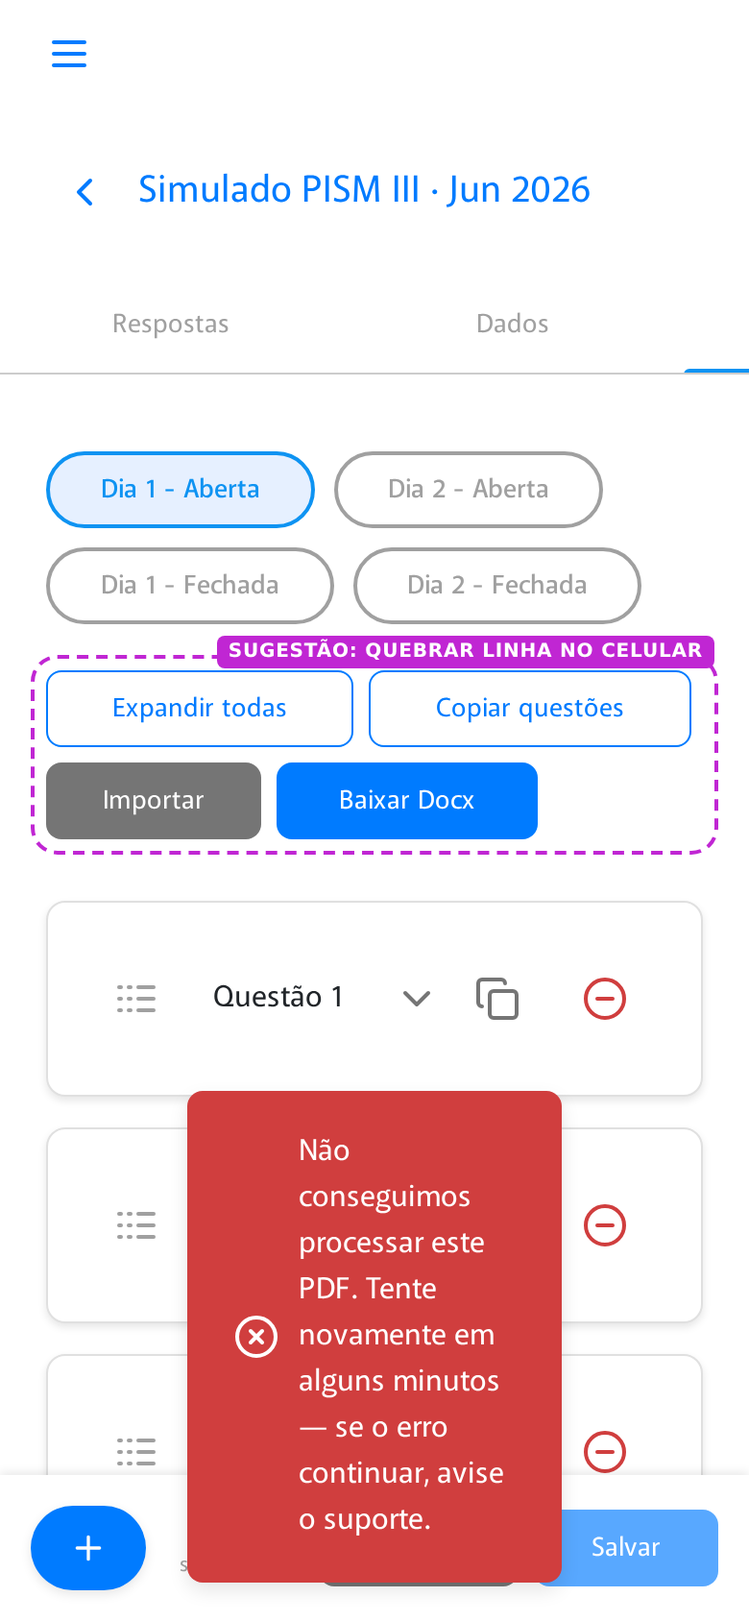
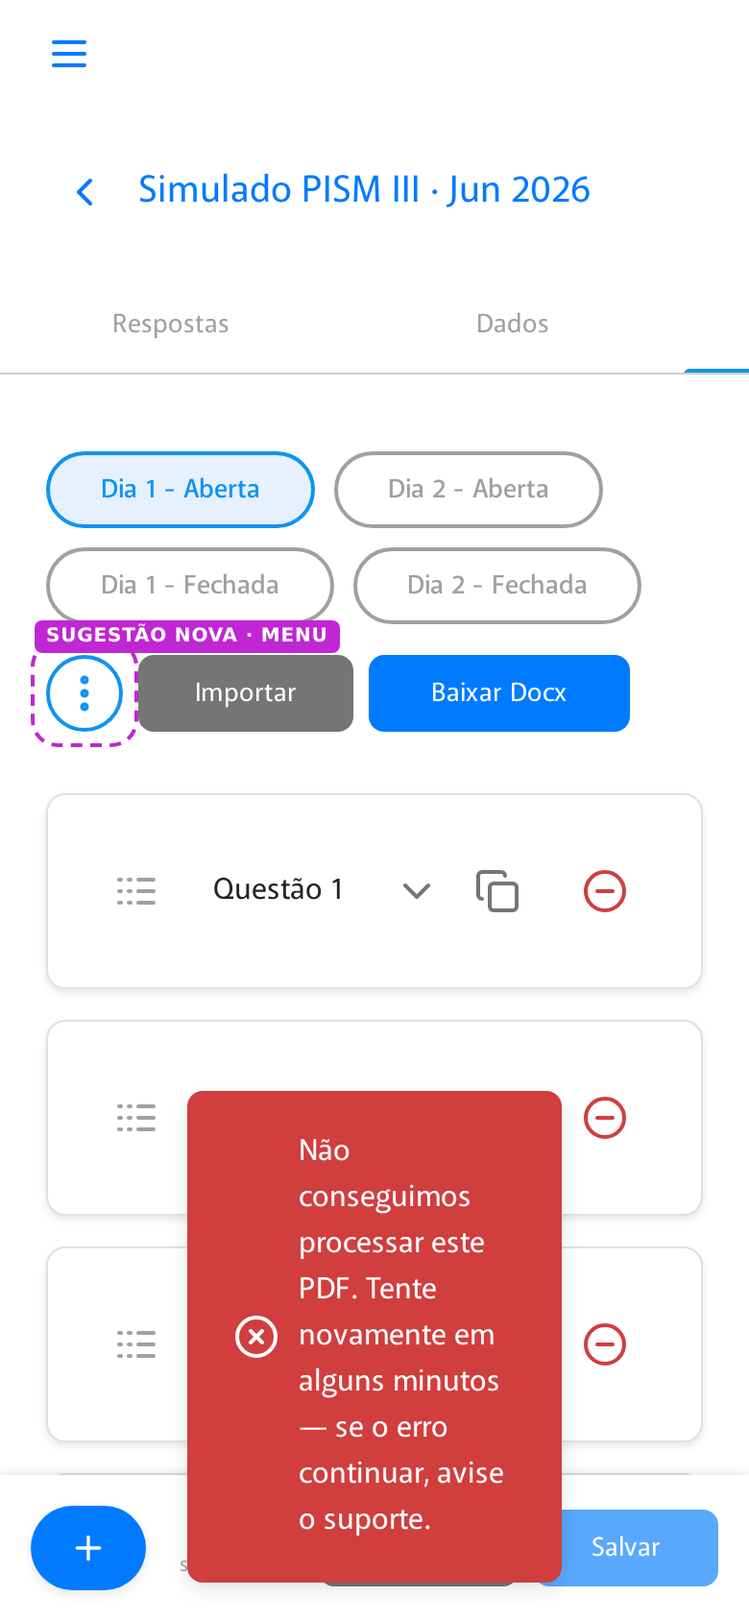
design: Expandir todas e Copiar questões num menu de 3 pontos, Importar e Baixar Docx soltos
Card Trello 489. Menu de 3 pontos marcado como sugestão (tracejado roxo), tela nova
simulado-extracao-pdf-menu com o menu aberto. Some a quebra de linha no celular, a
fileira passa a caber.

diff --git a/admin/simulado-extracao-pdf-menu.html b/admin/simulado-extracao-pdf-menu.html
@@ -1,0 +1,105 @@
+<!doctype html>
+<html lang="pt-BR">
+<head>
+  <meta charset="utf-8" />
+  <meta name="viewport" content="width=device-width, initial-scale=1" />
+  <title>Menu de 3 pontos · Questões do simulado · Admin · Mago do Pism</title>
+  <link rel="stylesheet" href="https://cdn.jsdelivr.net/npm/bootstrap@5.3.3/dist/css/bootstrap.min.css" />
+  <link rel="stylesheet" href="../styles/treino.css" />
+  <link rel="stylesheet" href="../styles/extracao-pdf.css" />
+</head>
+<!-- Card 489. Fluxo igual ao "Importar" da lista de exercícios (create-question-list), aplicado no AddQuestion do simulado. -->
+<body>
+<div class="mdp-root">
+    <aside class="mdp-aside bg-primary text-white d-flex flex-column flex-shrink-0" id="mdpAside">
+      <div class="text-center my-4"><img src="../assets/logo-azul.png" alt="Mago do Pism" class="mdp-logo" /></div>
+      <nav class="nav flex-column flex-grow-1 px-0">
+        <a class="nav-link rounded-0 text-white d-flex align-items-center p-3 w-100" href="#"><div class="mx-3 mdp-ico"><svg width="24" height="24" viewBox="0 0 25 25" fill="none" xmlns="http://www.w3.org/2000/svg"> <path d="M15.625 21.8751V13.5418C15.625 13.2655 15.5153 13.0006 15.3199 12.8052C15.1246 12.6099 14.8596 12.5001 14.5833 12.5001H10.4167C10.1404 12.5001 9.87545 12.6099 9.6801 12.8052C9.48475 13.0006 9.375 13.2655 9.375 13.5418V21.8751M3.125 10.4168C3.12493 10.1137 3.19097 9.8143 3.31853 9.5394C3.44609 9.26449 3.63208 9.02073 3.86354 8.82511L11.1552 2.57615C11.5312 2.25835 12.0077 2.08398 12.5 2.08398C12.9923 2.08398 13.4688 2.25835 13.8448 2.57615L21.1365 8.82511C21.3679 9.02073 21.5539 9.26449 21.6815 9.5394C21.809 9.8143 21.8751 10.1137 21.875 10.4168V19.7918C21.875 20.3443 21.6555 20.8742 21.2648 21.2649C20.8741 21.6556 20.3442 21.8751 19.7917 21.8751H5.20833C4.6558 21.8751 4.12589 21.6556 3.73519 21.2649C3.34449 20.8742 3.125 20.3443 3.125 19.7918V10.4168Z" stroke="#FCFCFC" stroke-width="2" stroke-linecap="round" stroke-linejoin="round"/> </svg></div><span>Início</span></a>
+        <a class="nav-link rounded-0 text-white d-flex align-items-center p-3 w-100" href="#"><div class="mx-3 mdp-ico"><svg width="24" height="24" viewBox="0 0 25 25" fill="none" xmlns="http://www.w3.org/2000/svg"> <path d="M7.29167 21.875H17.7083M10.4167 8.07292C10.4169 7.93416 10.4541 7.79797 10.5245 7.67835C10.5948 7.55874 10.6957 7.46002 10.8169 7.39235C10.938 7.32467 11.075 7.29048 11.2137 7.29329C11.3525 7.2961 11.488 7.33581 11.6062 7.40833L15.4229 9.75104C15.5367 9.82094 15.6306 9.91882 15.6958 10.0353C15.7609 10.1519 15.7951 10.2832 15.7951 10.4167C15.7951 10.5502 15.7609 10.6815 15.6958 10.798C15.6306 10.9145 15.5367 11.0124 15.4229 11.0823L11.6062 13.426C11.4878 13.4987 11.3521 13.5384 11.2132 13.5411C11.0743 13.5438 10.9372 13.5094 10.816 13.4415C10.6948 13.3736 10.5939 13.2746 10.5237 13.1547C10.4535 13.0348 10.4166 12.8983 10.4167 12.7594V8.07292ZM4.16667 3.125H20.8333C21.9839 3.125 22.9167 4.05774 22.9167 5.20833V15.625C22.9167 16.7756 21.9839 17.7083 20.8333 17.7083H4.16667C3.01607 17.7083 2.08333 16.7756 2.08333 15.625V5.20833C2.08333 4.05774 3.01607 3.125 4.16667 3.125Z" stroke="#FCFCFC" stroke-width="2" stroke-linecap="round" stroke-linejoin="round"/> </svg></div><span>Cursos</span></a>
+        <a class="nav-link rounded-0 text-white d-flex align-items-center p-3 w-100" href="#"><div class="mx-3 mdp-ico"><svg width="24" height="24" viewBox="0 0 24 24" fill="none" xmlns="http://www.w3.org/2000/svg"> <path d="M16 21V19C16 17.9391 15.5786 16.9217 14.8284 16.1716C14.0783 15.4214 13.0609 15 12 15H6C4.93913 15 3.92172 15.4214 3.17157 16.1716C2.42143 16.9217 2 17.9391 2 19V21M22 21V19C21.9993 18.1137 21.7044 17.2528 21.1614 16.5523C20.6184 15.8519 19.8581 15.3516 19 15.13M16 3.13C16.8604 3.3503 17.623 3.8507 18.1676 4.55231C18.7122 5.25392 19.0078 6.11683 19.0078 7.005C19.0078 7.89317 18.7122 8.75608 18.1676 9.45769C17.623 10.1593 16.8604 10.6597 16 10.88M13 7C13 9.20914 11.2091 11 9 11C6.79086 11 5 9.20914 5 7C5 4.79086 6.79086 3 9 3C11.2091 3 13 4.79086 13 7Z" stroke="currentColor" stroke-width="2" stroke-linecap="round" stroke-linejoin="round"/> </svg></div><span>Alunos</span></a>
+        <a class="nav-link rounded-0 text-white d-flex align-items-center p-3 w-100" href="#"><div class="mx-3 mdp-ico"><svg width="24" height="24" viewBox="0 0 25 25" fill="none" xmlns="http://www.w3.org/2000/svg"> <path d="M7.29167 3.125V21.875M4.16667 3.125H10.4167C10.992 3.125 11.4583 3.59137 11.4583 4.16667V20.8333C11.4583 21.4086 10.992 21.875 10.4167 21.875H4.16667C3.59137 21.875 3.125 21.4086 3.125 20.8333V4.16667C3.125 3.59137 3.59137 3.125 4.16667 3.125ZM21.25 19.6875C21.4583 20.2083 21.1458 20.8333 20.625 21.0417L18.6458 21.7708C18.125 21.9792 17.5 21.6667 17.2917 21.1458L11.5625 5.3125C11.3542 4.79167 11.6667 4.16667 12.1875 3.95833L14.1667 3.22917C14.6875 3.02083 15.3125 3.33333 15.5208 3.85417L21.25 19.6875Z" stroke="#FCFCFC" stroke-width="2" stroke-linecap="round" stroke-linejoin="round"/> </svg></div><span>Módulos</span></a>
+        <a class="nav-link rounded-0 text-white d-flex align-items-center p-3 w-100" href="#"><div class="mx-3 mdp-ico"><svg width="24" height="24" viewBox="0 0 25 25" fill="none" xmlns="http://www.w3.org/2000/svg"> <path d="M11.4583 17.7079L13.5417 19.7912C13.7469 19.9964 13.9905 20.1592 14.2585 20.2702C14.5266 20.3813 14.814 20.4384 15.1042 20.4384C15.3944 20.4384 15.6817 20.3813 15.9498 20.2702C16.2179 20.1592 16.4615 19.9964 16.6667 19.7912C16.8719 19.586 17.0346 19.3424 17.1457 19.0743C17.2567 18.8062 17.3139 18.5189 17.3139 18.2287C17.3139 17.9385 17.2567 17.6512 17.1457 17.3831C17.0346 17.115 16.8719 16.8714 16.6667 16.6662M14.5833 14.5829L17.1875 17.187C17.6019 17.6014 18.164 17.8343 18.75 17.8343C19.3361 17.8343 19.8981 17.6014 20.3125 17.187C20.7269 16.7726 20.9597 16.2106 20.9597 15.6245C20.9597 15.0385 20.7269 14.4764 20.3125 14.062L16.2708 10.0204C15.6849 9.43517 14.8906 9.10646 14.0625 9.10646C13.2344 9.10646 12.4401 9.43517 11.8542 10.0204L10.9375 10.937C10.5231 11.3514 9.96105 11.5843 9.375 11.5843C8.78895 11.5843 8.2269 11.3514 7.8125 10.937C7.3981 10.5226 7.16529 9.9606 7.16529 9.37455C7.16529 8.7885 7.3981 8.22645 7.8125 7.81205L10.7396 4.88496C11.6898 3.9372 12.9291 3.33346 14.2611 3.16931C15.5931 3.00517 16.9418 3.29 18.0938 3.97871L18.5833 4.27038C19.0269 4.53808 19.5542 4.63092 20.0625 4.5308L21.875 4.16621M21.875 3.12455L22.9167 14.5829H20.8333M3.125 3.12455L2.08334 14.5829L8.85417 21.3537C9.26857 21.7681 9.83062 22.0009 10.4167 22.0009C11.0027 22.0009 11.5648 21.7681 11.9792 21.3537C12.3936 20.9393 12.6264 20.3773 12.6264 19.7912C12.6264 19.2052 12.3936 18.6431 11.9792 18.2287M3.125 4.16621H11.4583" stroke="currentColor" stroke-width="2" stroke-linecap="round" stroke-linejoin="round"/> </svg></div><span>Equipe</span></a>
+        <a class="nav-link rounded-0 text-white d-flex align-items-center p-3 w-100" href="#"><div class="mx-3 mdp-ico"><svg width="24" height="24" viewBox="0 0 25 25" fill="none" xmlns="http://www.w3.org/2000/svg"> <path d="M12.0833 17.5C11.9739 17.8967 11.7874 18.268 11.5345 18.5926C11.2816 18.9172 10.9672 19.1888 10.6093 19.392C10.2514 19.5951 9.85701 19.7257 9.44862 19.7765C9.04024 19.8272 8.62587 19.7969 8.22917 19.6875C7.83247 19.5781 7.4612 19.3916 7.13658 19.1386C6.81195 18.8857 6.54032 18.5714 6.33719 18.2135C6.13406 17.8556 6.00342 17.4612 5.95271 17.0528C5.902 16.6444 5.93223 16.23 6.04167 15.8333M3.125 11.4583L21.875 6.25V18.75L3.125 14.5833V11.4583Z" stroke="#FCFCFC" stroke-width="2" stroke-linecap="round" stroke-linejoin="round"/> </svg></div><span>Avisos</span></a>
+        <a class="nav-link rounded-0 text-white d-flex align-items-center p-3 w-100" href="#"><div class="mx-3 mdp-ico"><svg width="24" height="24" viewBox="0 0 25 25" fill="none" xmlns="http://www.w3.org/2000/svg"> <path d="M4.16666 20.3127V4.68766C4.16666 3.99699 4.44103 3.33461 4.92941 2.84624C5.41778 2.35786 6.08016 2.0835 6.77083 2.0835H19.7917C20.0679 2.0835 20.3329 2.19324 20.5282 2.38859C20.7236 2.58394 20.8333 2.8489 20.8333 3.12516V21.8752C20.8333 22.1514 20.7236 22.4164 20.5282 22.6117C20.3329 22.8071 20.0679 22.9168 19.7917 22.9168H6.77083C6.08016 22.9168 5.41778 22.6425 4.92941 22.1541C4.44103 21.6657 4.16666 21.0033 4.16666 20.3127ZM4.16666 20.3127C4.16666 19.622 4.44103 18.9596 4.92941 18.4712C5.41778 17.9829 6.08016 17.7085 6.77083 17.7085H20.8333M9.375 9.896L11.4583 11.9793L15.625 7.81266" stroke="#FCFCFC" stroke-width="2" stroke-linecap="round" stroke-linejoin="round"/> </svg></div><span>Simulados</span></a>
+        <a class="nav-link rounded-0 text-white d-flex align-items-center p-3 w-100" href="#"><div class="mx-3 mdp-ico"><svg width="24" height="24" viewBox="0 0 25 25" fill="none" xmlns="http://www.w3.org/2000/svg"> <path d="M13.957 2.08365H6.2487C5.69616 2.08365 5.16626 2.30314 4.77556 2.69385C4.38486 3.08455 4.16536 3.61445 4.16536 4.16698V20.8337C4.16536 21.3862 4.38486 21.9161 4.77556 22.3068C5.16626 22.6975 5.69616 22.917 6.2487 22.917H18.7487C19.3012 22.917 19.8311 22.6975 20.2218 22.3068C20.6125 21.9161 20.832 21.3862 20.832 20.8337V13.1253M2.08203 6.25032H6.2487M2.08203 10.417H6.2487M2.08203 14.5837H6.2487M2.08203 18.7503H6.2487M22.2674 5.86073C22.6824 5.44578 22.9155 4.88298 22.9155 4.29615C22.9155 3.70932 22.6824 3.14652 22.2674 2.73157C21.8525 2.31661 21.2897 2.0835 20.7029 2.0835C20.116 2.0835 19.5532 2.31661 19.1383 2.73157L13.9195 7.9524C13.6719 8.19992 13.4906 8.50587 13.3924 8.84198L12.5206 11.8316C12.4944 11.9212 12.4929 12.0162 12.516 12.1067C12.5392 12.1971 12.5863 12.2797 12.6523 12.3457C12.7183 12.4117 12.8009 12.4588 12.8913 12.4819C12.9818 12.5051 13.0768 12.5035 13.1664 12.4774L16.156 11.6055C16.4921 11.5074 16.798 11.3261 17.0456 11.0784L22.2674 5.86073Z" stroke="#FCFCFC" stroke-width="2" stroke-linecap="round" stroke-linejoin="round"/> </svg></div><span>Nivelamentos</span></a>
+        <a class="nav-link rounded-0 text-white d-flex align-items-center p-3 w-100" href="#"><div class="mx-3 mdp-ico"><svg width="24" height="24" viewBox="0 0 25 25" fill="none" xmlns="http://www.w3.org/2000/svg"> <path d="M15.625 12.5H10.4167M15.625 8.33333H10.4167M19.7917 17.7083V5.20833C19.7917 4.6558 19.5722 4.12589 19.1815 3.73519C18.7908 3.34449 18.2609 3.125 17.7083 3.125H4.16667M4.16667 3.125C4.7192 3.125 5.2491 3.34449 5.6398 3.73519C6.03051 4.12589 6.25 4.6558 6.25 5.20833V19.7917C6.25 20.3442 6.46949 20.8741 6.86019 21.2648C7.25089 21.6555 7.7808 21.875 8.33333 21.875M4.16667 3.125C3.61413 3.125 3.08423 3.34449 2.69353 3.73519C2.30283 4.12589 2.08333 4.6558 2.08333 5.20833V7.29167C2.08333 7.56793 2.19308 7.83289 2.38843 8.02824C2.58378 8.22359 2.84873 8.33333 3.125 8.33333H6.25M8.33333 21.875H20.8333C21.3859 21.875 21.9158 21.6555 22.3065 21.2648C22.6972 20.8741 22.9167 20.3442 22.9167 19.7917V18.75C22.9167 18.4737 22.8069 18.2088 22.6116 18.0134C22.4162 17.8181 22.1513 17.7083 21.875 17.7083H11.4583C11.1821 17.7083 10.9171 17.8181 10.7218 18.0134C10.5264 18.2088 10.4167 18.4737 10.4167 18.75V19.7917C10.4167 20.3442 10.1972 20.8741 9.80647 21.2648C9.41577 21.6555 8.88587 21.875 8.33333 21.875Z" stroke="#FCFCFC" stroke-width="2" stroke-linecap="round" stroke-linejoin="round"/> </svg></div><span>Listas</span></a>
+        <a class="nav-link rounded-0 text-white d-flex align-items-center p-3 w-100" href="#"><div class="mx-3 mdp-ico"><svg viewBox="0 0 24 24" width="24" height="24" fill="none" stroke="#FCFCFC" stroke-width="2" stroke-linecap="round" stroke-linejoin="round"><path d="M21 10c0 7-9 13-9 13s-9-6-9-13a9 9 0 0 1 18 0z"/><circle cx="12" cy="10" r="3"/></svg></div><span>Geolocalização</span></a>
+        <a class="nav-link rounded-0 text-white d-flex align-items-center p-3 w-100" href="#"><div class="mx-3 mdp-ico"><svg width="24" height="24" viewBox="0 0 24 24" fill="none" xmlns="http://www.w3.org/2000/svg"> <path d="M20.49 9A9 9 0 0 0 5.6 5.6L3 8M3 8V3M3 8H8M3.51 15A9 9 0 0 0 18.4 18.4L21 16M21 16V21M21 16H16" stroke="#FCFCFC" stroke-width="2" stroke-linecap="round" stroke-linejoin="round"/> </svg></div><span>Rematrícula</span></a>
+      </nav>
+      <div class="mt-auto mb-4 px-0">
+        
+        <a class="nav-link rounded-0 text-white d-flex align-items-center p-3 w-100" href="#"><div class="mx-3 mdp-ico"><svg width="24" height="24" viewBox="0 0 25 25" fill="none" xmlns="http://www.w3.org/2000/svg"> <path d="M19.7917 21.875V19.7917C19.7917 18.6866 19.3527 17.6268 18.5713 16.8454C17.7899 16.064 16.7301 15.625 15.625 15.625H9.375C8.26993 15.625 7.21013 16.064 6.42872 16.8454C5.64732 17.6268 5.20834 18.6866 5.20834 19.7917V21.875M16.6667 7.29167C16.6667 9.59285 14.8012 11.4583 12.5 11.4583C10.1988 11.4583 8.33334 9.59285 8.33334 7.29167C8.33334 4.99048 10.1988 3.125 12.5 3.125C14.8012 3.125 16.6667 4.99048 16.6667 7.29167Z" stroke="#FCFCFC" stroke-width="2" stroke-linecap="round" stroke-linejoin="round"/> </svg></div><span>Meu Perfil</span></a>
+      </div>
+    </aside>
+    <main class="flex-grow-1 position-relative d-flex flex-column overflow-hidden bg-white">
+      <div class="mdp-mobilebar d-flex align-items-center mb-3 pt-3 px-4">
+        <button class="btn border-0 p-0" aria-label="Abrir menu" onclick="document.getElementById('mdpAside').classList.toggle('open')"><span class="text-primary d-inline-block" style="width:24px;height:24px"><svg width="24" height="24" viewBox="0 0 24 24" fill="none" xmlns="http://www.w3.org/2000/svg"> <path d="M4 12H20M4 6H20M4 18H20" stroke="currentColor" stroke-width="2" stroke-linecap="round" stroke-linejoin="round"/> </svg></span></button>
+      </div>
+      <div class="flex-grow-1 overflow-auto p-0" style="touch-action:pan-y;">
+        <div class="p-4 d-flex justify-content-between align-items-center">
+          <div style="display:flex;align-items:center;gap:8px">
+            <a class="icon-button" href="simulados.html" aria-label="Voltar"><span style="width:24px;height:24px;display:inline-block"><svg width="24" height="24" viewBox="0 0 24 24" fill="none"><path d="M15 18L9 12L15 6" stroke="#007BFF" stroke-width="2" stroke-linecap="round" stroke-linejoin="round"/></svg></span></a>
+            <div class="h5 text-primary m-0">Simulado PISM III · Jun 2026</div>
+          </div>
+          <div class="d-flex gap-2"></div>
+        </div>
+        <ul class="nav custom-nav-tabs d-flex flex-nowrap mb-0" style="overflow:auto hidden">
+          <li class="nav-item"><a href="#" class="nav-link">Respostas</a></li>
+          <li class="nav-item"><a href="simulado-dados.html" class="nav-link">Dados</a></li>
+          <li class="nav-item"><a href="#" class="nav-link active">Questões</a></li>
+          <li class="nav-item"><a href="simulado-documentos.html" class="nav-link">Documentos</a></li>
+        </ul>
+        <div class="aq">
+          <div class="aq-body">
+            <div class="aq-head">
+              <div class="flex-grow-1 w-100">
+                <div class="aq-head-row">
+                  <div class="cat-list"><button type="button" class="cat-btn is-on" style="min-width:140px">Dia 1 - Aberta</button><button type="button" class="cat-btn" style="min-width:140px">Dia 2 - Aberta</button><button type="button" class="cat-btn" style="min-width:150px">Dia 1 - Fechada</button><button type="button" class="cat-btn" style="min-width:150px">Dia 2 - Fechada</button></div>
+                  <div class="aq-actions"><div class="mais-wrap ds-sugestao"><span class="ds-tag">Sugestão nova · menu</span><button type="button" class="mais-btn is-open" aria-label="Mais ações" aria-haspopup="menu" aria-expanded="true"><svg width="24" height="24" viewBox="0 0 24 24" fill="none" stroke="#0E93F2" stroke-width="2.5" stroke-linecap="round"><circle cx="12" cy="5" r="1"/><circle cx="12" cy="12" r="1"/><circle cx="12" cy="19" r="1"/></svg></button><div class="mais-menu" role="menu"><button type="button" role="menuitem">Expandir todas</button><button type="button" role="menuitem">Copiar questões</button></div></div><div><button type="button" class="btn btn-secondary mdp-btn minor" style="min-width:112px"><span>Importar</span></button></div><div><button type="button" class="btn btn-primary mdp-btn minor" style="min-width:136px"><span>Baixar Docx</span></button></div></div>
+                </div>
+              </div>
+            </div>
+            
+            <div class="aq-list">
+<div class="q-card"><div class="q-card-head">
+  <div class="q-card-left"><div class="q-drag"><svg class="q-ico" viewBox="0 0 24 24" fill="none"><path d="M13 12H21M13 18H21M13 6H21M3 12H4M3 18H4M3 6H4M8 12H9M8 18H9M8 6H9" stroke="#A0A0A0" stroke-width="2" stroke-linecap="round" stroke-linejoin="round"/></svg></div><p>Questão 1</p><button class="icon-button" aria-label="Expandir"><svg width="24" height="24" viewBox="0 0 24 24" fill="none" stroke="#757575" stroke-width="2" stroke-linecap="round" stroke-linejoin="round"><polyline points="6 9 12 15 18 9"/></svg></button></div>
+  <div class="q-card-right"><button class="icon-button" aria-label="Copiar"><svg class="q-ico" viewBox="0 0 24 24" fill="none"><path d="M4 16C2.9 16 2 15.1 2 14V4C2 2.9 2.9 2 4 2H14C15.1 2 16 2.9 16 4M10 8H20C21.1046 8 22 8.89543 22 10V20C22 21.1046 21.1046 22 20 22H10C8.89543 22 8 21.1046 8 20V10C8 8.89543 8.89543 8 10 8Z" stroke="#757575" stroke-width="2" stroke-linecap="round" stroke-linejoin="round"/></svg></button><button class="icon-button" aria-label="Remover"><svg class="q-ico" viewBox="0 0 24 24" fill="none"><path d="M8 12H16M22 12C22 17.5228 17.5228 22 12 22C6.47715 22 2 17.5228 2 12C2 6.47715 6.47715 2 12 2C17.5228 2 22 6.47715 22 12Z" stroke="#D03E3E" stroke-width="2" stroke-linecap="round" stroke-linejoin="round"/></svg></button></div>
+</div></div>
+<div class="q-card"><div class="q-card-head">
+  <div class="q-card-left"><div class="q-drag"><svg class="q-ico" viewBox="0 0 24 24" fill="none"><path d="M13 12H21M13 18H21M13 6H21M3 12H4M3 18H4M3 6H4M8 12H9M8 18H9M8 6H9" stroke="#A0A0A0" stroke-width="2" stroke-linecap="round" stroke-linejoin="round"/></svg></div><p>Questão 2</p><button class="icon-button" aria-label="Expandir"><svg width="24" height="24" viewBox="0 0 24 24" fill="none" stroke="#757575" stroke-width="2" stroke-linecap="round" stroke-linejoin="round"><polyline points="6 9 12 15 18 9"/></svg></button></div>
+  <div class="q-card-right"><button class="icon-button" aria-label="Copiar"><svg class="q-ico" viewBox="0 0 24 24" fill="none"><path d="M4 16C2.9 16 2 15.1 2 14V4C2 2.9 2.9 2 4 2H14C15.1 2 16 2.9 16 4M10 8H20C21.1046 8 22 8.89543 22 10V20C22 21.1046 21.1046 22 20 22H10C8.89543 22 8 21.1046 8 20V10C8 8.89543 8.89543 8 10 8Z" stroke="#757575" stroke-width="2" stroke-linecap="round" stroke-linejoin="round"/></svg></button><button class="icon-button" aria-label="Remover"><svg class="q-ico" viewBox="0 0 24 24" fill="none"><path d="M8 12H16M22 12C22 17.5228 17.5228 22 12 22C6.47715 22 2 17.5228 2 12C2 6.47715 6.47715 2 12 2C17.5228 2 22 6.47715 22 12Z" stroke="#D03E3E" stroke-width="2" stroke-linecap="round" stroke-linejoin="round"/></svg></button></div>
+</div></div>
+<div class="q-card"><div class="q-card-head">
+  <div class="q-card-left"><div class="q-drag"><svg class="q-ico" viewBox="0 0 24 24" fill="none"><path d="M13 12H21M13 18H21M13 6H21M3 12H4M3 18H4M3 6H4M8 12H9M8 18H9M8 6H9" stroke="#A0A0A0" stroke-width="2" stroke-linecap="round" stroke-linejoin="round"/></svg></div><p>Questão 3</p><button class="icon-button" aria-label="Expandir"><svg width="24" height="24" viewBox="0 0 24 24" fill="none" stroke="#757575" stroke-width="2" stroke-linecap="round" stroke-linejoin="round"><polyline points="6 9 12 15 18 9"/></svg></button></div>
+  <div class="q-card-right"><button class="icon-button" aria-label="Copiar"><svg class="q-ico" viewBox="0 0 24 24" fill="none"><path d="M4 16C2.9 16 2 15.1 2 14V4C2 2.9 2.9 2 4 2H14C15.1 2 16 2.9 16 4M10 8H20C21.1046 8 22 8.89543 22 10V20C22 21.1046 21.1046 22 20 22H10C8.89543 22 8 21.1046 8 20V10C8 8.89543 8.89543 8 10 8Z" stroke="#757575" stroke-width="2" stroke-linecap="round" stroke-linejoin="round"/></svg></button><button class="icon-button" aria-label="Remover"><svg class="q-ico" viewBox="0 0 24 24" fill="none"><path d="M8 12H16M22 12C22 17.5228 17.5228 22 12 22C6.47715 22 2 17.5228 2 12C2 6.47715 6.47715 2 12 2C17.5228 2 22 6.47715 22 12Z" stroke="#D03E3E" stroke-width="2" stroke-linecap="round" stroke-linejoin="round"/></svg></button></div>
+</div></div>
+<div class="q-card"><div class="q-card-head">
+  <div class="q-card-left"><div class="q-drag"><svg class="q-ico" viewBox="0 0 24 24" fill="none"><path d="M13 12H21M13 18H21M13 6H21M3 12H4M3 18H4M3 6H4M8 12H9M8 18H9M8 6H9" stroke="#A0A0A0" stroke-width="2" stroke-linecap="round" stroke-linejoin="round"/></svg></div><p>Questão 4</p><button class="icon-button" aria-label="Expandir"><svg width="24" height="24" viewBox="0 0 24 24" fill="none" stroke="#757575" stroke-width="2" stroke-linecap="round" stroke-linejoin="round"><polyline points="6 9 12 15 18 9"/></svg></button></div>
+  <div class="q-card-right"><button class="icon-button" aria-label="Copiar"><svg class="q-ico" viewBox="0 0 24 24" fill="none"><path d="M4 16C2.9 16 2 15.1 2 14V4C2 2.9 2.9 2 4 2H14C15.1 2 16 2.9 16 4M10 8H20C21.1046 8 22 8.89543 22 10V20C22 21.1046 21.1046 22 20 22H10C8.89543 22 8 21.1046 8 20V10C8 8.89543 8.89543 8 10 8Z" stroke="#757575" stroke-width="2" stroke-linecap="round" stroke-linejoin="round"/></svg></button><button class="icon-button" aria-label="Remover"><svg class="q-ico" viewBox="0 0 24 24" fill="none"><path d="M8 12H16M22 12C22 17.5228 17.5228 22 12 22C6.47715 22 2 17.5228 2 12C2 6.47715 6.47715 2 12 2C17.5228 2 22 6.47715 22 12Z" stroke="#D03E3E" stroke-width="2" stroke-linecap="round" stroke-linejoin="round"/></svg></button></div>
+</div></div>
+<div class="q-card"><div class="q-card-head">
+  <div class="q-card-left"><div class="q-drag"><svg class="q-ico" viewBox="0 0 24 24" fill="none"><path d="M13 12H21M13 18H21M13 6H21M3 12H4M3 18H4M3 6H4M8 12H9M8 18H9M8 6H9" stroke="#A0A0A0" stroke-width="2" stroke-linecap="round" stroke-linejoin="round"/></svg></div><p>Questão 5</p><button class="icon-button" aria-label="Expandir"><svg width="24" height="24" viewBox="0 0 24 24" fill="none" stroke="#757575" stroke-width="2" stroke-linecap="round" stroke-linejoin="round"><polyline points="6 9 12 15 18 9"/></svg></button></div>
+  <div class="q-card-right"><button class="icon-button" aria-label="Copiar"><svg class="q-ico" viewBox="0 0 24 24" fill="none"><path d="M4 16C2.9 16 2 15.1 2 14V4C2 2.9 2.9 2 4 2H14C15.1 2 16 2.9 16 4M10 8H20C21.1046 8 22 8.89543 22 10V20C22 21.1046 21.1046 22 20 22H10C8.89543 22 8 21.1046 8 20V10C8 8.89543 8.89543 8 10 8Z" stroke="#757575" stroke-width="2" stroke-linecap="round" stroke-linejoin="round"/></svg></button><button class="icon-button" aria-label="Remover"><svg class="q-ico" viewBox="0 0 24 24" fill="none"><path d="M8 12H16M22 12C22 17.5228 17.5228 22 12 22C6.47715 22 2 17.5228 2 12C2 6.47715 6.47715 2 12 2C17.5228 2 22 6.47715 22 12Z" stroke="#D03E3E" stroke-width="2" stroke-linecap="round" stroke-linejoin="round"/></svg></button></div>
+</div></div>
+<div class="q-card"><div class="q-card-head">
+  <div class="q-card-left"><div class="q-drag"><svg class="q-ico" viewBox="0 0 24 24" fill="none"><path d="M13 12H21M13 18H21M13 6H21M3 12H4M3 18H4M3 6H4M8 12H9M8 18H9M8 6H9" stroke="#A0A0A0" stroke-width="2" stroke-linecap="round" stroke-linejoin="round"/></svg></div><p>Questão 6</p><button class="icon-button" aria-label="Expandir"><svg width="24" height="24" viewBox="0 0 24 24" fill="none" stroke="#757575" stroke-width="2" stroke-linecap="round" stroke-linejoin="round"><polyline points="6 9 12 15 18 9"/></svg></button></div>
+  <div class="q-card-right"><button class="icon-button" aria-label="Copiar"><svg class="q-ico" viewBox="0 0 24 24" fill="none"><path d="M4 16C2.9 16 2 15.1 2 14V4C2 2.9 2.9 2 4 2H14C15.1 2 16 2.9 16 4M10 8H20C21.1046 8 22 8.89543 22 10V20C22 21.1046 21.1046 22 20 22H10C8.89543 22 8 21.1046 8 20V10C8 8.89543 8.89543 8 10 8Z" stroke="#757575" stroke-width="2" stroke-linecap="round" stroke-linejoin="round"/></svg></button><button class="icon-button" aria-label="Remover"><svg class="q-ico" viewBox="0 0 24 24" fill="none"><path d="M8 12H16M22 12C22 17.5228 17.5228 22 12 22C6.47715 22 2 17.5228 2 12C2 6.47715 6.47715 2 12 2C17.5228 2 22 6.47715 22 12Z" stroke="#D03E3E" stroke-width="2" stroke-linecap="round" stroke-linejoin="round"/></svg></button></div>
+</div></div>
+            </div>
+          </div>
+          <div class="aq-bottom">
+            <button class="aq-add bg-primary"><svg viewBox="0 0 24 24" fill="none"><path d="M5 12H19M12 5V19" stroke="#FCFCFC" stroke-width="2" stroke-linecap="round" stroke-linejoin="round"/></svg><span>Adicionar questão</span></button>
+            <div>
+              <div class="aq-points"><b>6 pontos</b><span>Sem peso</span></div>
+              <div class="aq-points-m"><b>6 pts</b><span>s/ peso ↕</span></div>
+            </div>
+            <div class="aq-bottom-right"><div><button type="button" class="btn btn-secondary mdp-btn minor" style="min-width:104px"><span>Preview</span></button></div><div><button type="button" class="btn btn-primary mdp-btn minor" style="min-width:96px" disabled><span>Salvar</span></button></div></div>
+          </div>
+        </div>
+      </div>
+    </main>
+  </div>
+
+
+</body>
+</html>

diff --git a/admin/simulado-extracao-pdf-importando.html b/admin/simulado-extracao-pdf-importando.html
@@ -55,7 +55,7 @@
               <div class="flex-grow-1 w-100">
                 <div class="aq-head-row">
                   <div class="cat-list"><button type="button" class="cat-btn is-on" style="min-width:140px">Dia 1 - Aberta</button><button type="button" class="cat-btn" style="min-width:140px">Dia 2 - Aberta</button><button type="button" class="cat-btn" style="min-width:150px">Dia 1 - Fechada</button><button type="button" class="cat-btn" style="min-width:150px">Dia 2 - Fechada</button></div>
-                  <div class="aq-actions wrap-m"><span class="ds-tag ds-only-m">Sugestão: quebrar linha no celular</span><div><button type="button" class="btn btn-outline-primary mdp-btn minor" style="min-width:160px"><span>Expandir todas</span></button></div><div><button type="button" class="btn btn-outline-primary mdp-btn minor" style="min-width:168px"><span>Copiar questões</span></button></div><div><button type="button" class="btn btn-secondary mdp-btn minor" style="min-width:112px" disabled><span>Importar</span></button></div><div><button type="button" class="btn btn-primary mdp-btn minor" style="min-width:136px"><span>Baixar Docx</span></button></div></div>
+                  <div class="aq-actions"><div class="mais-wrap ds-sugestao"><span class="ds-tag">Sugestão nova · menu</span><button type="button" class="mais-btn" aria-label="Mais ações" aria-haspopup="menu" aria-expanded="false"><svg width="24" height="24" viewBox="0 0 24 24" fill="none" stroke="#0E93F2" stroke-width="2.5" stroke-linecap="round"><circle cx="12" cy="5" r="1"/><circle cx="12" cy="12" r="1"/><circle cx="12" cy="19" r="1"/></svg></button></div><div><button type="button" class="btn btn-secondary mdp-btn minor" style="min-width:112px" disabled><span>Importar</span></button></div><div><button type="button" class="btn btn-primary mdp-btn minor" style="min-width:136px"><span>Baixar Docx</span></button></div></div>
                 </div>
               </div>
             </div>

diff --git a/admin/simulado-extracao-pdf-erro.html b/admin/simulado-extracao-pdf-erro.html
@@ -55,7 +55,7 @@
               <div class="flex-grow-1 w-100">
                 <div class="aq-head-row">
                   <div class="cat-list"><button type="button" class="cat-btn is-on" style="min-width:140px">Dia 1 - Aberta</button><button type="button" class="cat-btn" style="min-width:140px">Dia 2 - Aberta</button><button type="button" class="cat-btn" style="min-width:150px">Dia 1 - Fechada</button><button type="button" class="cat-btn" style="min-width:150px">Dia 2 - Fechada</button></div>
-                  <div class="aq-actions wrap-m"><span class="ds-tag ds-only-m">Sugestão: quebrar linha no celular</span><div><button type="button" class="btn btn-outline-primary mdp-btn minor" style="min-width:160px"><span>Expandir todas</span></button></div><div><button type="button" class="btn btn-outline-primary mdp-btn minor" style="min-width:168px"><span>Copiar questões</span></button></div><div><button type="button" class="btn btn-secondary mdp-btn minor" style="min-width:112px"><span>Importar</span></button></div><div><button type="button" class="btn btn-primary mdp-btn minor" style="min-width:136px"><span>Baixar Docx</span></button></div></div>
+                  <div class="aq-actions"><div class="mais-wrap ds-sugestao"><span class="ds-tag">Sugestão nova · menu</span><button type="button" class="mais-btn" aria-label="Mais ações" aria-haspopup="menu" aria-expanded="false"><svg width="24" height="24" viewBox="0 0 24 24" fill="none" stroke="#0E93F2" stroke-width="2.5" stroke-linecap="round"><circle cx="12" cy="5" r="1"/><circle cx="12" cy="12" r="1"/><circle cx="12" cy="19" r="1"/></svg></button></div><div><button type="button" class="btn btn-secondary mdp-btn minor" style="min-width:112px"><span>Importar</span></button></div><div><button type="button" class="btn btn-primary mdp-btn minor" style="min-width:136px"><span>Baixar Docx</span></button></div></div>
                 </div>
               </div>
             </div>

diff --git a/admin/simulado-extracao-pdf-importadas.html b/admin/simulado-extracao-pdf-importadas.html
@@ -55,7 +55,7 @@
               <div class="flex-grow-1 w-100">
                 <div class="aq-head-row">
                   <div class="cat-list"><button type="button" class="cat-btn is-on" style="min-width:140px">Dia 1 - Aberta</button><button type="button" class="cat-btn" style="min-width:140px">Dia 2 - Aberta</button><button type="button" class="cat-btn" style="min-width:150px">Dia 1 - Fechada</button><button type="button" class="cat-btn" style="min-width:150px">Dia 2 - Fechada</button></div>
-                  <div class="aq-actions wrap-m"><span class="ds-tag ds-only-m">Sugestão: quebrar linha no celular</span><div><button type="button" class="btn btn-outline-primary mdp-btn minor" style="min-width:160px"><span>Expandir todas</span></button></div><div><button type="button" class="btn btn-outline-primary mdp-btn minor" style="min-width:168px"><span>Copiar questões</span></button></div><div><button type="button" class="btn btn-secondary mdp-btn minor" style="min-width:112px"><span>Importar</span></button></div><div><button type="button" class="btn btn-primary mdp-btn minor" style="min-width:136px"><span>Baixar Docx</span></button></div></div>
+                  <div class="aq-actions"><div class="mais-wrap ds-sugestao"><span class="ds-tag">Sugestão nova · menu</span><button type="button" class="mais-btn" aria-label="Mais ações" aria-haspopup="menu" aria-expanded="false"><svg width="24" height="24" viewBox="0 0 24 24" fill="none" stroke="#0E93F2" stroke-width="2.5" stroke-linecap="round"><circle cx="12" cy="5" r="1"/><circle cx="12" cy="12" r="1"/><circle cx="12" cy="19" r="1"/></svg></button></div><div><button type="button" class="btn btn-secondary mdp-btn minor" style="min-width:112px"><span>Importar</span></button></div><div><button type="button" class="btn btn-primary mdp-btn minor" style="min-width:136px"><span>Baixar Docx</span></button></div></div>
                 </div>
               </div>
             </div>

diff --git a/admin/simulado-extracao-pdf-modal-arquivo.html b/admin/simulado-extracao-pdf-modal-arquivo.html
@@ -55,7 +55,7 @@
               <div class="flex-grow-1 w-100">
                 <div class="aq-head-row">
                   <div class="cat-list"><button type="button" class="cat-btn is-on" style="min-width:140px">Dia 1 - Aberta</button><button type="button" class="cat-btn" style="min-width:140px">Dia 2 - Aberta</button><button type="button" class="cat-btn" style="min-width:150px">Dia 1 - Fechada</button><button type="button" class="cat-btn" style="min-width:150px">Dia 2 - Fechada</button></div>
-                  <div class="aq-actions wrap-m"><span class="ds-tag ds-only-m">Sugestão: quebrar linha no celular</span><div><button type="button" class="btn btn-outline-primary mdp-btn minor" style="min-width:160px"><span>Expandir todas</span></button></div><div><button type="button" class="btn btn-outline-primary mdp-btn minor" style="min-width:168px"><span>Copiar questões</span></button></div><div><button type="button" class="btn btn-secondary mdp-btn minor" style="min-width:112px"><span>Importar</span></button></div><div><button type="button" class="btn btn-primary mdp-btn minor" style="min-width:136px"><span>Baixar Docx</span></button></div></div>
+                  <div class="aq-actions"><div class="mais-wrap ds-sugestao"><span class="ds-tag">Sugestão nova · menu</span><button type="button" class="mais-btn" aria-label="Mais ações" aria-haspopup="menu" aria-expanded="false"><svg width="24" height="24" viewBox="0 0 24 24" fill="none" stroke="#0E93F2" stroke-width="2.5" stroke-linecap="round"><circle cx="12" cy="5" r="1"/><circle cx="12" cy="12" r="1"/><circle cx="12" cy="19" r="1"/></svg></button></div><div><button type="button" class="btn btn-secondary mdp-btn minor" style="min-width:112px"><span>Importar</span></button></div><div><button type="button" class="btn btn-primary mdp-btn minor" style="min-width:136px"><span>Baixar Docx</span></button></div></div>
                 </div>
               </div>
             </div>

diff --git a/admin/simulado-extracao-pdf-modal.html b/admin/simulado-extracao-pdf-modal.html
@@ -55,7 +55,7 @@
               <div class="flex-grow-1 w-100">
                 <div class="aq-head-row">
                   <div class="cat-list"><button type="button" class="cat-btn is-on" style="min-width:140px">Dia 1 - Aberta</button><button type="button" class="cat-btn" style="min-width:140px">Dia 2 - Aberta</button><button type="button" class="cat-btn" style="min-width:150px">Dia 1 - Fechada</button><button type="button" class="cat-btn" style="min-width:150px">Dia 2 - Fechada</button></div>
-                  <div class="aq-actions wrap-m"><span class="ds-tag ds-only-m">Sugestão: quebrar linha no celular</span><div><button type="button" class="btn btn-outline-primary mdp-btn minor" style="min-width:160px"><span>Expandir todas</span></button></div><div><button type="button" class="btn btn-outline-primary mdp-btn minor" style="min-width:168px"><span>Copiar questões</span></button></div><div><button type="button" class="btn btn-secondary mdp-btn minor" style="min-width:112px"><span>Importar</span></button></div><div><button type="button" class="btn btn-primary mdp-btn minor" style="min-width:136px"><span>Baixar Docx</span></button></div></div>
+                  <div class="aq-actions"><div class="mais-wrap ds-sugestao"><span class="ds-tag">Sugestão nova · menu</span><button type="button" class="mais-btn" aria-label="Mais ações" aria-haspopup="menu" aria-expanded="false"><svg width="24" height="24" viewBox="0 0 24 24" fill="none" stroke="#0E93F2" stroke-width="2.5" stroke-linecap="round"><circle cx="12" cy="5" r="1"/><circle cx="12" cy="12" r="1"/><circle cx="12" cy="19" r="1"/></svg></button></div><div><button type="button" class="btn btn-secondary mdp-btn minor" style="min-width:112px"><span>Importar</span></button></div><div><button type="button" class="btn btn-primary mdp-btn minor" style="min-width:136px"><span>Baixar Docx</span></button></div></div>
                 </div>
               </div>
             </div>

diff --git a/admin/simulado-extracao-pdf-questoes.html b/admin/simulado-extracao-pdf-questoes.html
@@ -55,7 +55,7 @@
               <div class="flex-grow-1 w-100">
                 <div class="aq-head-row">
                   <div class="cat-list"><button type="button" class="cat-btn is-on" style="min-width:140px">Dia 1 - Aberta</button><button type="button" class="cat-btn" style="min-width:140px">Dia 2 - Aberta</button><button type="button" class="cat-btn" style="min-width:150px">Dia 1 - Fechada</button><button type="button" class="cat-btn" style="min-width:150px">Dia 2 - Fechada</button></div>
-                  <div class="aq-actions wrap-m"><span class="ds-tag ds-only-m">Sugestão: quebrar linha no celular</span><div><button type="button" class="btn btn-outline-primary mdp-btn minor" style="min-width:160px"><span>Expandir todas</span></button></div><div><button type="button" class="btn btn-outline-primary mdp-btn minor" style="min-width:168px"><span>Copiar questões</span></button></div><div><button type="button" class="btn btn-secondary mdp-btn minor" style="min-width:112px"><span>Importar</span></button></div><div><button type="button" class="btn btn-primary mdp-btn minor" style="min-width:136px"><span>Baixar Docx</span></button></div></div>
+                  <div class="aq-actions"><div class="mais-wrap ds-sugestao"><span class="ds-tag">Sugestão nova · menu</span><button type="button" class="mais-btn" aria-label="Mais ações" aria-haspopup="menu" aria-expanded="false"><svg width="24" height="24" viewBox="0 0 24 24" fill="none" stroke="#0E93F2" stroke-width="2.5" stroke-linecap="round"><circle cx="12" cy="5" r="1"/><circle cx="12" cy="12" r="1"/><circle cx="12" cy="19" r="1"/></svg></button></div><div><button type="button" class="btn btn-secondary mdp-btn minor" style="min-width:112px"><span>Importar</span></button></div><div><button type="button" class="btn btn-primary mdp-btn minor" style="min-width:136px"><span>Baixar Docx</span></button></div></div>
                 </div>
               </div>
             </div>

diff --git a/admin/simulado-extracao-pdf-sem-questoes.html b/admin/simulado-extracao-pdf-sem-questoes.html
@@ -55,7 +55,7 @@
               <div class="flex-grow-1 w-100">
                 <div class="aq-head-row">
                   <div class="cat-list"><button type="button" class="cat-btn is-on" style="min-width:140px">Dia 1 - Aberta</button><button type="button" class="cat-btn" style="min-width:140px">Dia 2 - Aberta</button><button type="button" class="cat-btn" style="min-width:150px">Dia 1 - Fechada</button><button type="button" class="cat-btn" style="min-width:150px">Dia 2 - Fechada</button></div>
-                  <div class="aq-actions wrap-m"><span class="ds-tag ds-only-m">Sugestão: quebrar linha no celular</span><div><button type="button" class="btn btn-outline-primary mdp-btn minor" style="min-width:160px"><span>Expandir todas</span></button></div><div><button type="button" class="btn btn-outline-primary mdp-btn minor" style="min-width:168px"><span>Copiar questões</span></button></div><div><button type="button" class="btn btn-secondary mdp-btn minor" style="min-width:112px"><span>Importar</span></button></div><div><button type="button" class="btn btn-primary mdp-btn minor" style="min-width:136px"><span>Baixar Docx</span></button></div></div>
+                  <div class="aq-actions"><div class="mais-wrap ds-sugestao"><span class="ds-tag">Sugestão nova · menu</span><button type="button" class="mais-btn" aria-label="Mais ações" aria-haspopup="menu" aria-expanded="false"><svg width="24" height="24" viewBox="0 0 24 24" fill="none" stroke="#0E93F2" stroke-width="2.5" stroke-linecap="round"><circle cx="12" cy="5" r="1"/><circle cx="12" cy="12" r="1"/><circle cx="12" cy="19" r="1"/></svg></button></div><div><button type="button" class="btn btn-secondary mdp-btn minor" style="min-width:112px"><span>Importar</span></button></div><div><button type="button" class="btn btn-primary mdp-btn minor" style="min-width:136px"><span>Baixar Docx</span></button></div></div>
                 </div>
               </div>
             </div>

diff --git a/styles/extracao-pdf.css b/styles/extracao-pdf.css
@@ -100,3 +100,12 @@
 /* ── Marcação de sugestão nova (só no protótipo, não vai pro app) ── */
 .ds-sugestao { outline: 2px dashed #C026D3; outline-offset: 6px; border-radius: 6px; position: relative; }
 .ds-tag { position: absolute; top: -18px; right: -6px; background: #C026D3; color: #fff; font-size: 10px; font-weight: 700; letter-spacing: .04em; text-transform: uppercase; padding: 1px 6px; border-radius: 4px; white-space: nowrap; z-index: 5; font-family: system-ui, sans-serif; }
+
+/* Sugestão nova: menu de 3 pontos com Expandir todas e Copiar questões */
+.mais-wrap { position: relative; display: flex; align-items: center; }
+.mais-btn { width: 40px; height: 40px; border-radius: 20px; background: #fff; border: 2px solid #0E93F2; display: flex; align-items: center; justify-content: center; padding: 0; }
+.mais-btn.is-open { background: #E6F0FF; }
+.mais-menu { position: absolute; top: 48px; left: 0; z-index: 20; min-width: 184px; background: #fff; border: 1px solid #E0E0E0; border-radius: 8px; box-shadow: 0 4px 12px rgba(0, 0, 0, .15); padding: 6px 0; display: flex; flex-direction: column; }
+.mais-menu button { background: none; border: none; text-align: left; padding: 10px 16px; font-size: 14px; color: #212529; font-family: inherit; }
+.mais-menu button:hover { background: #F1F5F9; }
+.mais-wrap > .ds-tag { right: auto; left: -6px; }
